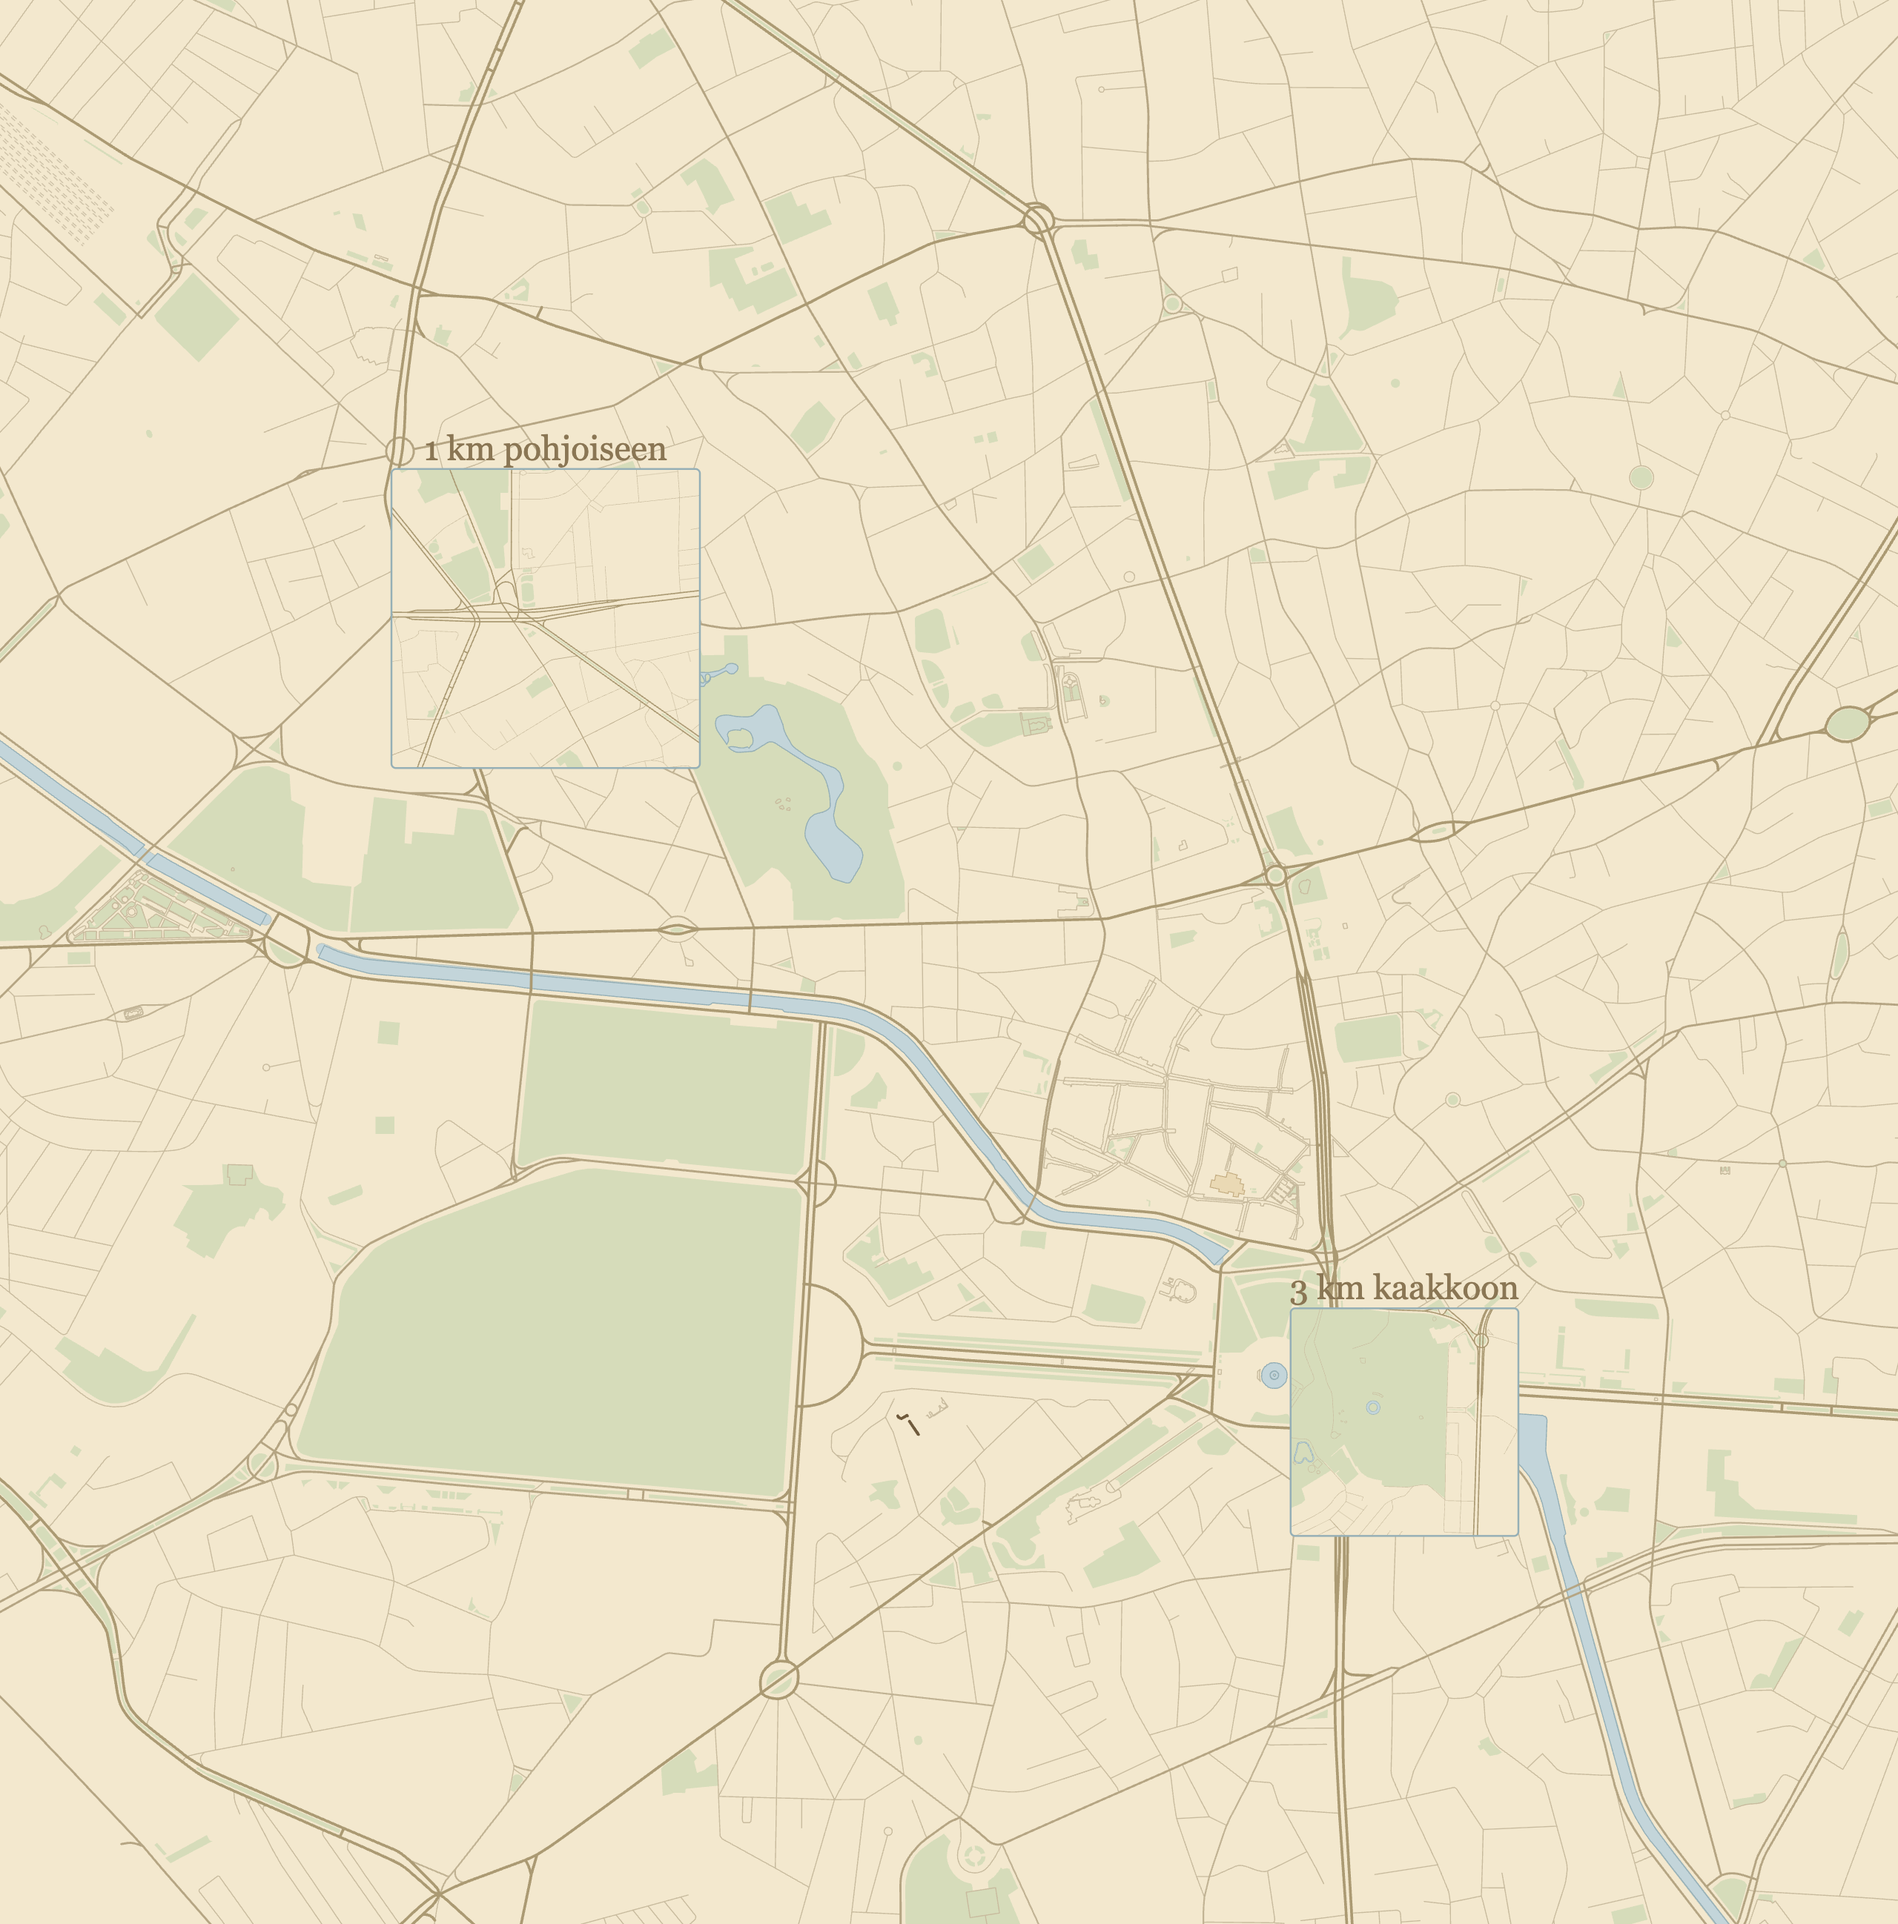
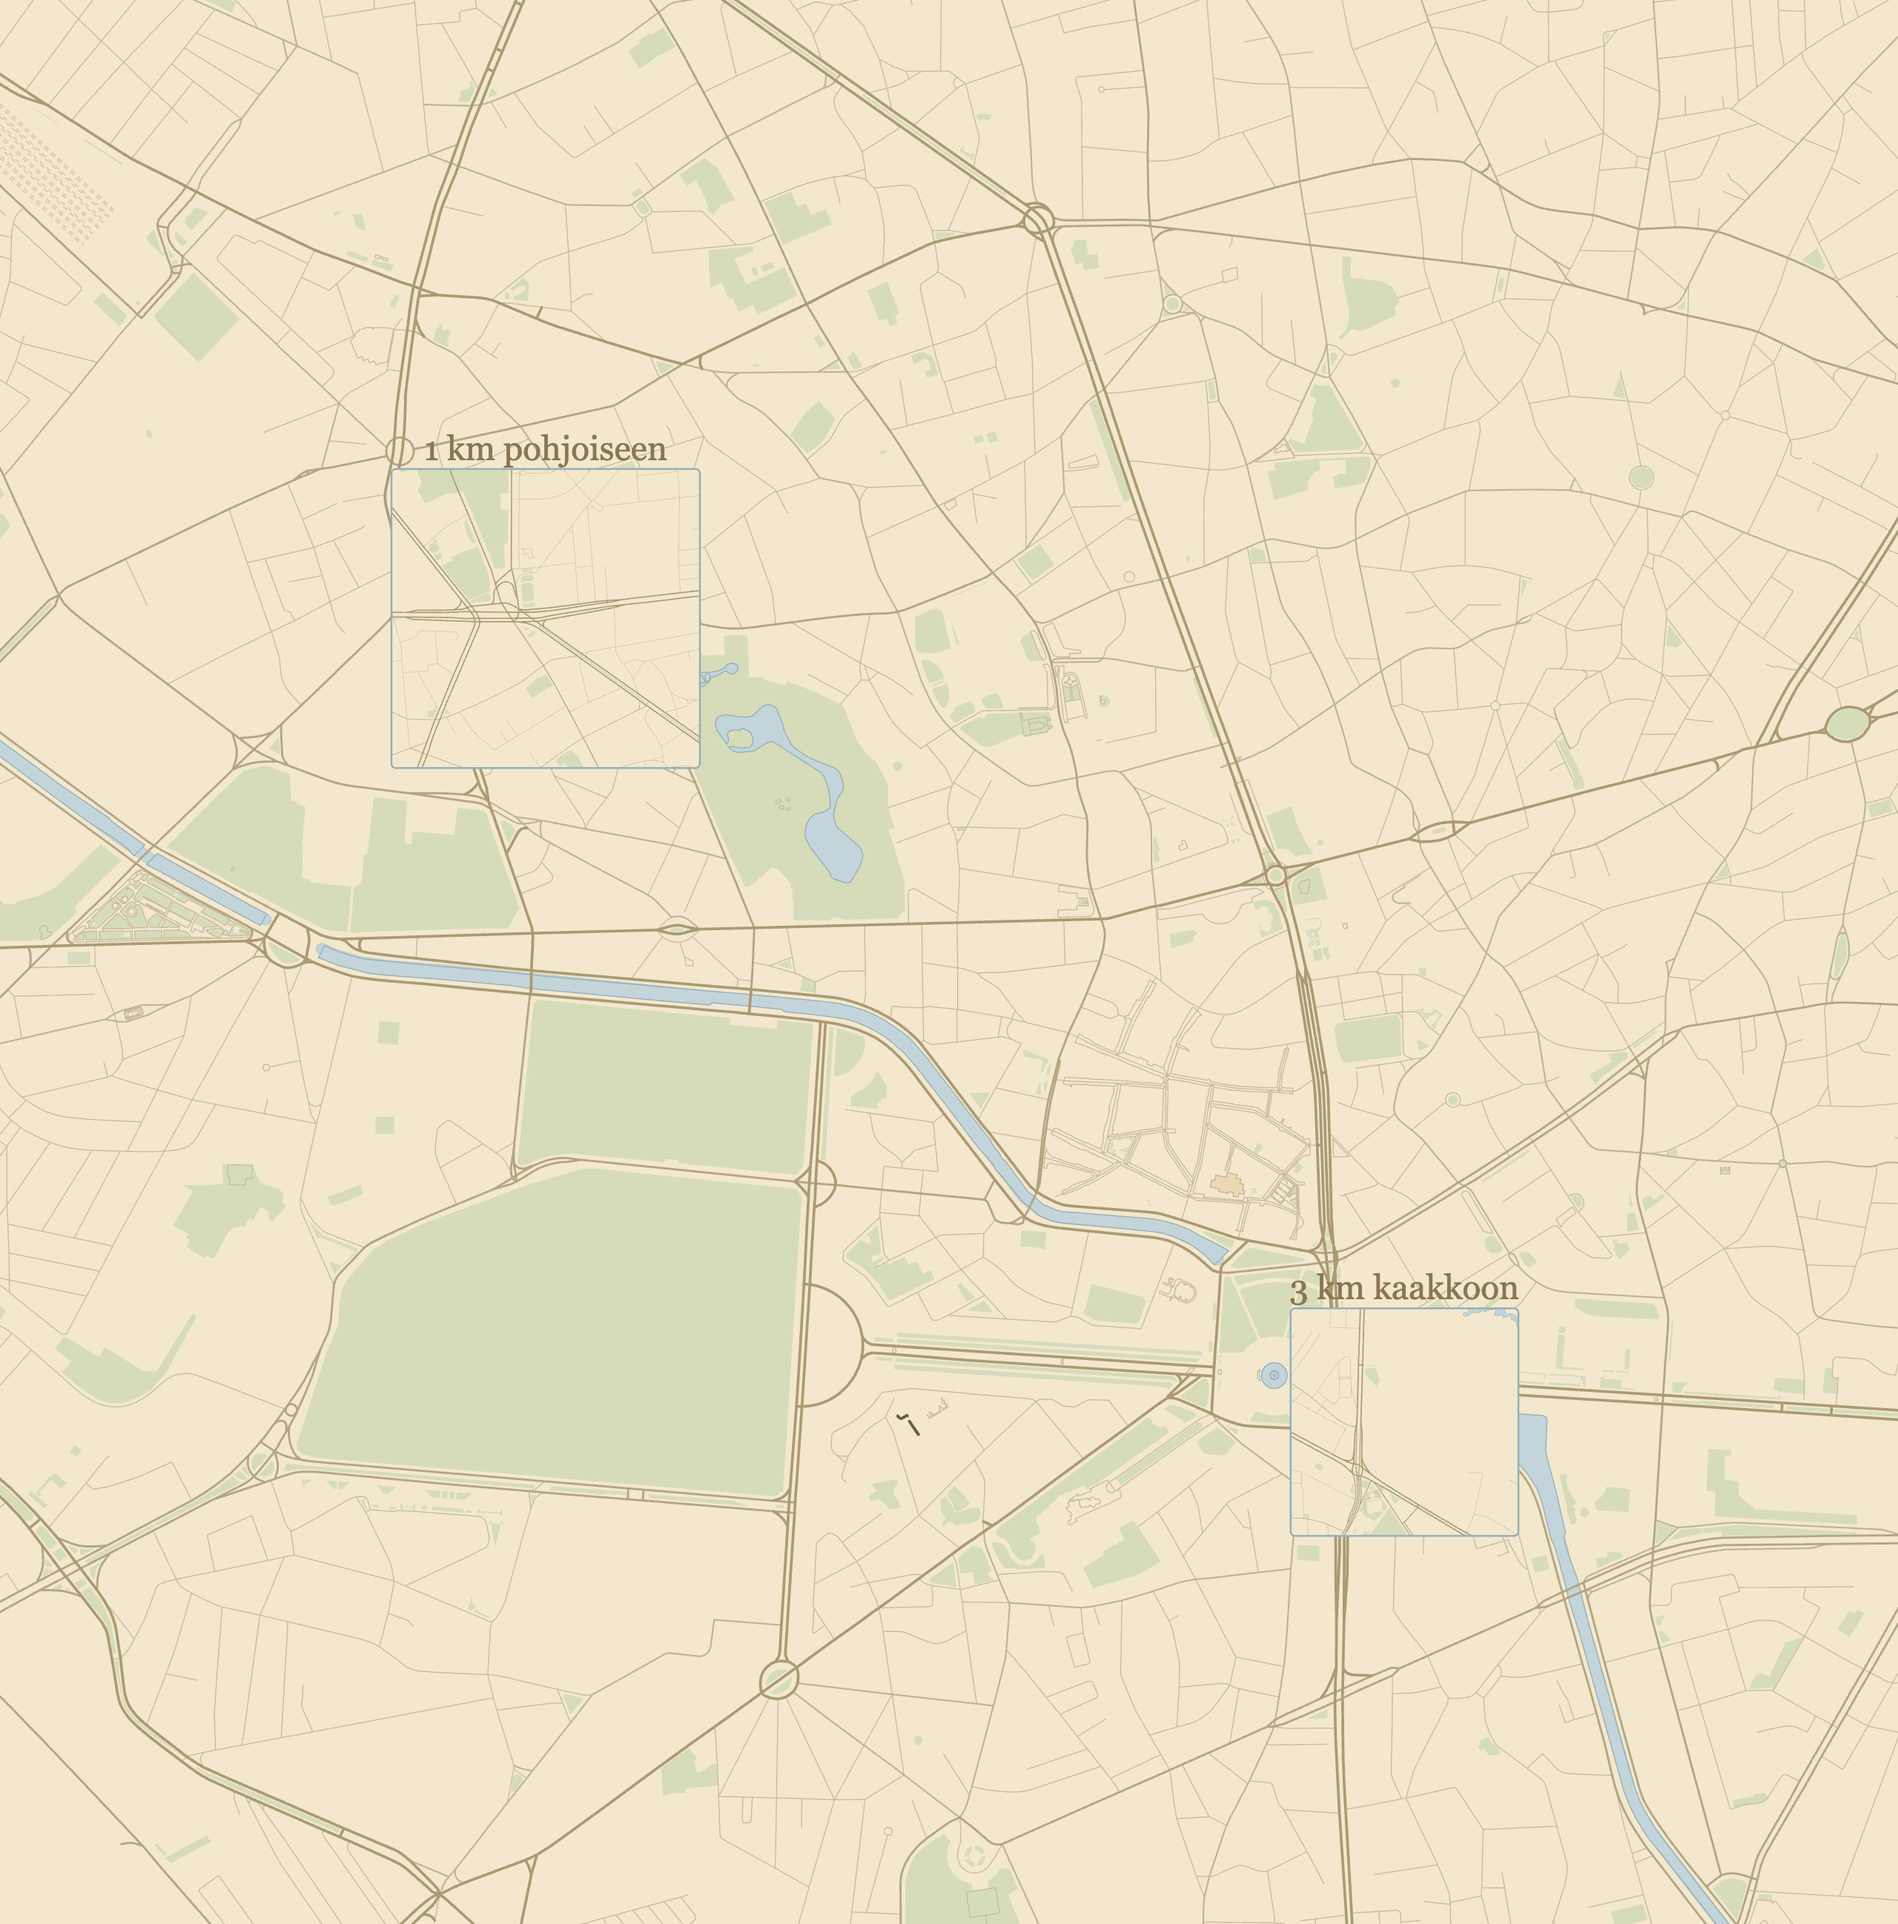
KS: 9 kohdekartan pistettä Wikidatan tarkistettuun paikkaan (Museosaari, Maison du Peuple, Văcărești + kainalo, Nyenskans, Riian synagoga, Finlayson, Nisa, Iliou Melathron, Nanluoguxiang)

Changed region(s): [[0.6562, 0.6552, 0.7812, 0.8112]]

diff --git a/js/packs/maakartat.js b/js/packs/maakartat.js
@@ -4988,8 +4988,8 @@ export const KAUPUNKIKARTAT = {
        * joka ei osu minkään entisen kohteen päälle, ja ne kaksi tulevat
        * tähän: `akropolis-museo` (23,7283 E / 37,9691 N —
        * js/packs/fokuskohteet-grc.js) ja syvennystarina
-       * `syvennys-ateena-schliemann` eli Iliou Melathron (23,7328 E /
-       * 37,9808 N — js/packs/syvennyspaikat.js).
+       * `syvennys-ateena-schliemann` eli Iliou Melathron (23,7354 E /
+       * 37,9778 N — js/packs/syvennyspaikat.js; Panepistimiou 12, Wikidata-piste tarkistettu, Karttaseppä 3.11.2026 (docs/raportit/kohdetunnisteet-20261102.md)).
        *
        * NELJÄ MUUTA JÄI POIS, ja syy on sama kuin Tuulten tornilla
        * alla: ne seisovat täsmälleen kartalla jo olevan kohteen päällä
@@ -5014,7 +5014,7 @@ export const KAUPUNKIKARTAT = {
         wiki: 'Olympoksen Zeuksen temppeli', nosto: 'olympieion',
       },
       { nimi: 'Sýntagman aukio', tyyppi: 'aukio', lat: 37.9756, lon: 23.7347, wiki: 'Sýntagma' },
-      { nimi: 'Iliou Melathron', lat: 37.9808, lon: 23.7328, nosto: 'syvennys-ateena-schliemann' },
+      { nimi: 'Iliou Melathron', lat: 37.9778, lon: 23.7354, nosto: 'syvennys-ateena-schliemann' },
       { nimi: 'Lykavittós', lat: 37.9819, lon: 23.7432, wiki: 'Lykavittós' },
       { nimi: 'Kallimarmaro', lat: 37.9683, lon: 23.7411, wiki: 'Panathinaïkó-stadion' },
       /*
@@ -6308,7 +6308,7 @@ export const KAUPUNKIKARTAT = {
         nosto: 'brandenburgin-portti',
       },
       { nimi: 'Checkpoint Charlie', lat: 52.5076, lon: 13.3904, wiki: 'Checkpoint Charlie' },
-      { nimi: 'Museosaari', lat: 52.5169, lon: 13.401, wiki: 'Museumsinsel' },
+      { nimi: 'Museosaari', lat: 52.5214, lon: 13.3956, wiki: 'Museumsinsel' },
       // KIINTEÄ (KK 31.10.2026): hajautus työnsi tornin Museosaaren ja Maailmankellon välistä Spreen väärälle rannalle
       // (~900 m); kiinteää kohdetta naapurit väistävät, ja torni pysyy Alexanderplatzilla (js/nahtavyydet.js hajautus).
       { nimi: 'Tv-torni', lat: 52.5208, lon: 13.4094, wiki: 'Berliinin televisiotorni', kiintea: true },
@@ -7238,7 +7238,7 @@ export const KAUPUNKIKARTAT = {
       { rajat: { pohjoinen: 44.4565, etela: 44.4475, lansi: 26.081, ita: 26.094 },
         x: 20.625, y: 24.375, leveys: 16.25, korkeus: 15.54 },
       // Văcăreștin luostarin kainalo (PT 31.10.2026, kadonneet ihmeet; tools/piirra-kaupunkikartta.mjs bukarest).
-      { rajat: { pohjoinen: 44.4085, etela: 44.3995, lansi: 26.1107, ita: 26.1233 },
+      { rajat: { pohjoinen: 44.4004, etela: 44.3914, lansi: 26.117, ita: 26.1296 },
         x: 68, y: 68, leveys: 12, korkeus: 11.83 },
     ],
     /*
@@ -7261,7 +7261,7 @@ export const KAUPUNKIKARTAT = {
     kohteet: [
       // KADONNUT IHME LOISTONSA AIKANA (omistaja 31.10.2026 klo 12.49; teksti PT): nimi = fokuskohde hahmotelma-vacaresti
       // (monumentit-eurooppa.js), joten ihmetähti ja ihmekortti osuvat nimellä.
-      { nimi: 'Văcărești-luostari', lat: 44.404, lon: 26.117, wiki: 'Văcărești Monastery', nosto: 'hahmotelma-vacaresti' },
+      { nimi: 'Văcărești-luostari', lat: 44.3959, lon: 26.1233, wiki: 'Văcărești Monastery', nosto: 'hahmotelma-vacaresti' },
       /*
        * Numerointi pohjoisesta etelään: ateneumilta vanhaankaupunkiin
        * ja siitä lounaaseen Parlamenttipalatsille. Antipan museo on
@@ -7543,7 +7543,7 @@ export const KAUPUNKIKARTAT = {
     kohteet: [
       // KADONNUT IHME LOISTONSA AIKANA (omistaja 31.10.2026 klo 12.49; teksti PT): nimi = fokuskohde hahmotelma-nyenskans
       // (monumentit-eurooppa.js), joten ihmetähti ja ihmekortti osuvat nimellä.
-      { nimi: 'Nyenskans', lat: 59.9415, lon: 30.41, wiki: 'Nyenskans', nosto: 'hahmotelma-nyenskans' },
+      { nimi: 'Nyenskans', lat: 59.9438, lon: 30.4068, wiki: 'Nyenskans', nosto: 'hahmotelma-nyenskans' },
       /*
        * Numerointi pohjoisesta etelään. Tämä on pelin ainoa
        * kaupunkikartta, jolla kaikilla kuudella kohteella on
@@ -8151,7 +8151,7 @@ export const KAUPUNKIKARTAT = {
       // Torni seisoo niemen kärjessä: piste on siirretty muutaman
       // kymmenen metriä sisämaahan, jottei numeroympyrä istu vedessä.
       { nimi: 'Näsinneula', lat: 61.5052, lon: 23.7422, wiki: 'Näsinneula' },
-      { nimi: 'Finlaysonin tehdasalue', lat: 61.4996, lon: 23.753, wiki: 'Finlaysonin tehdasalue' },
+      { nimi: 'Finlaysonin tehdasalue', lat: 61.5017, lon: 23.7598, wiki: 'Finlaysonin tehdasalue' },
       { nimi: 'Museokeskus Vapriikki', lat: 61.50301, lon: 23.76036, wiki: 'Museokeskus Vapriikki' },
       {
         nimi: 'Hämeensilta', lat: 61.4979, lon: 23.7626, wiki: 'Hämeensilta',
@@ -8438,7 +8438,7 @@ export const KAUPUNKIKARTAT = {
     kohteet: [
       // KADONNUT IHME LOISTONSA AIKANA (omistaja 31.10.2026 klo 12.49; teksti PT): nimi = fokuskohde hahmotelma-maison-du-peuple
       // (monumentit-eurooppa.js), joten ihmetähti ja ihmekortti osuvat nimellä.
-      { nimi: 'Maison du Peuple', lat: 50.839, lon: 4.348, wiki: 'Maison du Peuple, Brussels', nosto: 'hahmotelma-maison-du-peuple' },
+      { nimi: 'Maison du Peuple', lat: 50.8411, lon: 4.3525, wiki: 'Maison du Peuple, Brussels', nosto: 'hahmotelma-maison-du-peuple' },
       { nimi: 'Brysselin pörssi', lat: 50.84795, lon: 4.34916, wiki: 'Brysselin pörssi' },
       { nimi: 'Manneken Pis', lat: 50.84499, lon: 4.34999, wiki: 'Manneken Pis' },
       {
@@ -9112,7 +9112,7 @@ export const KAUPUNKIKARTAT = {
     kohteet: [
       // KADONNUT IHME LOISTONSA AIKANA (omistaja 31.10.2026 klo 12.49; teksti PT): nimi = fokuskohde hahmotelma-gogolin-synagoga
       // (monumentit-eurooppa.js), joten ihmetähti ja ihmekortti osuvat nimellä.
-      { nimi: 'Gogolin kadun synagoga', lat: 56.944, lon: 24.117, wiki: 'Great Choral Synagogue (Riga)', nosto: 'hahmotelma-gogolin-synagoga' },
+      { nimi: 'Gogolin kadun synagoga', lat: 56.9424, lon: 24.1263, wiki: 'Great Choral Synagogue (Riga)', nosto: 'hahmotelma-gogolin-synagoga' },
       /*
        * NELJÄLLÄ KUUDESTA ON PAIKAN OMA WIKI, tarkistettu hakemalla.
        * Kaksi ansaa kirjattu tähän, jotta niihin ei astuta uudelleen:
@@ -10064,7 +10064,7 @@ export const KAUPUNKIKARTAT = {
       { nimi: 'Vanha kesäpalatsi', lat: 40.008, lon: 116.298 },
       { nimi: 'Kesäpalatsi', lat: 39.9975, lon: 116.2689 },
       { nimi: 'Yonghe-temppeli', lat: 39.9469, lon: 116.4111 },
-      { nimi: 'Nanluoguxiang', lat: 39.9425, lon: 116.3964 },
+      { nimi: 'Nanluoguxiang', lat: 39.9352, lon: 116.3969 },
       { nimi: 'Rumpu- ja kellotorni', lat: 39.9402, lon: 116.3896 },
       { nimi: 'Jingshanin puisto', tyyppi: 'luonto', lat: 39.9236, lon: 116.3906 },
       { nimi: 'Kielletty kaupunki', lat: 39.9158, lon: 116.3908 },
@@ -20377,8 +20377,8 @@ export const KAUPUNKIKARTAT = {
     kohteet: [
       {
         nimi: 'Nisa',
-        lat: 37.96667,
-        lon: 58.195,
+        lat: 37.95115,
+        lon: 58.21241,
       },
     ],
   },

diff --git a/js/packs/syvennyspaikat.js b/js/packs/syvennyspaikat.js
@@ -98,10 +98,10 @@ export const SYVENNYSPAIKAT = {
     },
     /*
      * Iliou Melathron / Ateenan numismaattinen museo, Panepistimiou-katu 12.
-     * Lähde: en-Wikipedia "Numismatic Museum, Athens" -koordinaatit
+     * Lähde: en-Wikipedia "Numismatic Museum, Athens" -koordinaatit; Wikidata Q1658537 ja OSM tarkistettu (KS 3.11.2026).
      */
     schliemann: {
-      lat: 37.9808, lon: 23.7328, symboli: 'historia', nimio: 'Iliou Melathron',
+      lat: 37.9778, lon: 23.7354, symboli: 'historia', nimio: 'Iliou Melathron',
     },
   },
   barcelona: {
